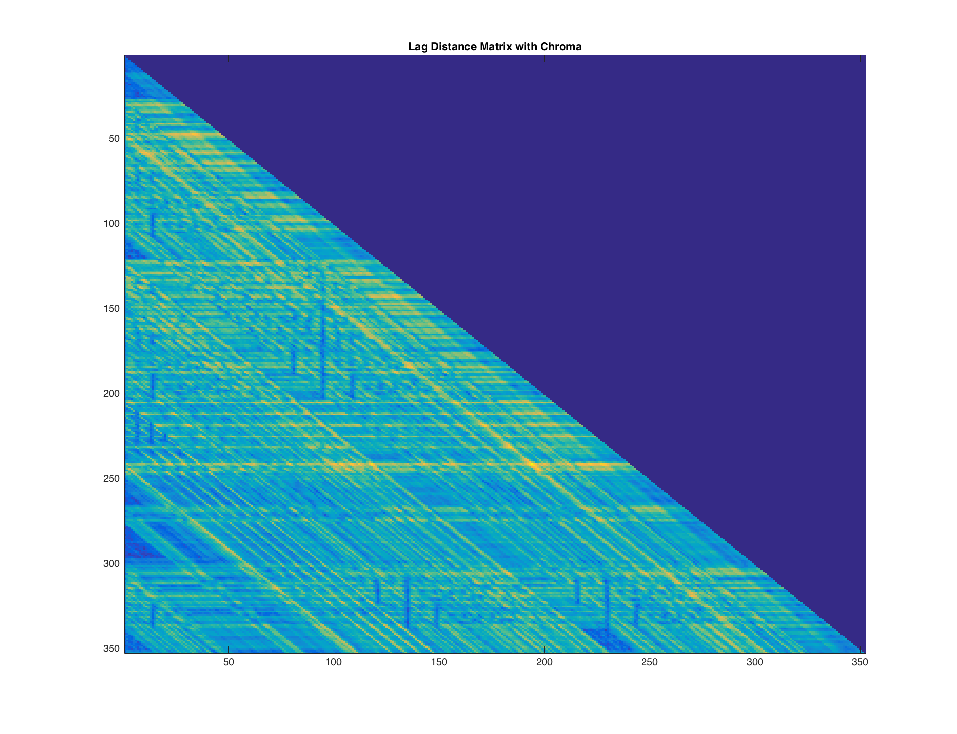
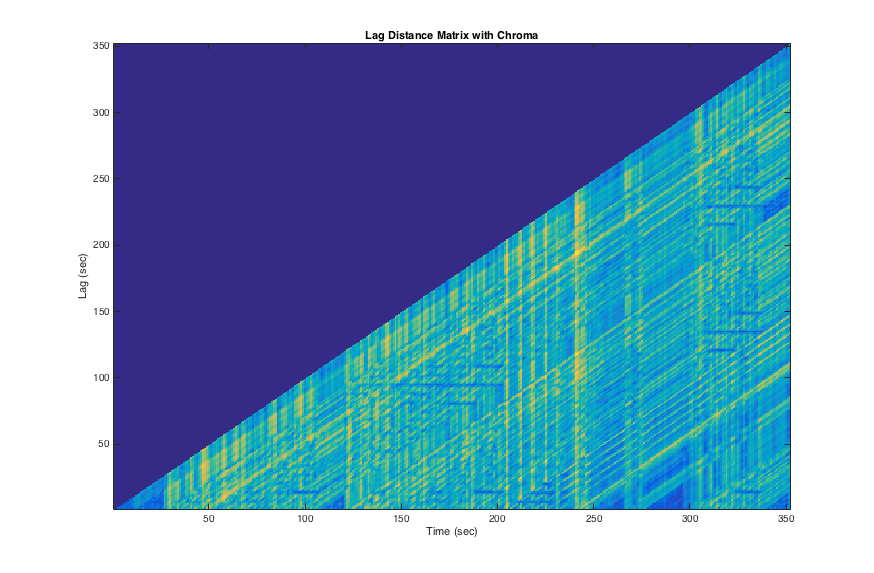
plot changes

diff --git a/Segmentation/MainForSegmentation.m b/Segmentation/MainForSegmentation.m
@@ -38,10 +38,11 @@ end
 % SDM for features
 featureMatrix=NormVPC;
 [SDMVPC] = computeSelfDistMat(featureMatrix);
+figure;imagesc(SDMVPC);title('SDM with Chroma'); xlabel('Time (sec)'); ylabel('Time (sec)');
 
 featureMatrix=NormVMFCC;
 [SDMVMFCC] = computeSelfDistMat(featureMatrix);
-
+figure;imagesc(SDMVMFCC);title('SDM with MFCCs'); xlabel('Time (sec)'); ylabel('Time (sec)');
 
 %% novelty plotting
 % read annotation
@@ -54,7 +55,7 @@ time=round(time);
 L=2;
 [nvtVPC1] = computeSdmNovelty(SDMVPC, L);
 nvtVPC1=normalizeZeroToOne(nvtVPC1');
-figure; title('Novelty for Chroma');
+figure; title('Novelty for Chroma'); xlabel('Time (sec)');
 subplot(311); plot(nvtVPC1); title('L=2');
 for i=1:length(time)
    hold on;
@@ -86,12 +87,13 @@ for i=1:length(time)
    yval=[0 1];
    plot(xval,yval,'k');
 end
+xlabel('Time (sec)');
 
 L=2;
 [nvtMFCC1] = computeSdmNovelty(SDMVMFCC, L);
 nvtMFCC1=normalizeZeroToOne(nvtMFCC1');
 
-figure; title('Novelty for MFCCs');
+figure; title('Novelty for MFCCs'); xlabel('Time (sec)');
 subplot(311); plot(nvtMFCC1); title('L=2');
 for i=1:length(time)
    hold on;
@@ -123,13 +125,14 @@ for i=1:length(time)
    yval=[0 1];
    plot(xval,yval,'k');
 end
+xlabel('Time (sec)');
 
 %% Lag Distance Matrix
 Rvpc = computeLagDistMatrix(SDMVPC);
-figure; imagesc(Rvpc);title('Lag Distance Matrix with Chroma')
+figure; imagesc(Rvpc);title('Lag Distance Matrix with Chroma'); axis xy; xlabel('Time (sec)'); ylabel('Lag (sec)');
 
 Rmfcc = computeLagDistMatrix(SDMVMFCC);
-figure;imagesc(Rmfcc);title('Lag Distance Matrix with MFCCs');
+figure;imagesc(Rmfcc);title('Lag Distance Matrix with MFCCs'); axis xy; xlabel('Time (sec)'); ylabel('Lag (sec)');
 
 %% Binarization
 threshold=0.5;
@@ -148,24 +151,24 @@ threshold=0.5;
 
 NormSDMmfcc=(Rmfcc-min(min(Rmfcc)))./(max(max(Rmfcc))-min(min(Rmfcc)));
 [SDM_binaryMFCC] = computeBinSdm(NormSDMmfcc, 0.35);
-figure;imagesc(SDM_binaryMFCC);
+figure;imagesc(SDM_binaryMFCC); axis xy; xlabel('Time (sec)'); ylabel('Lag (sec)');
 colormap gray;
 title('Binary SDM MFCC with threshold=0.35');
 
 NormSDMvpc=(Rvpc-min(min(Rvpc)))./(max(max(Rvpc))-min(min(Rvpc)));
 [SDM_binaryVPC] = computeBinSdm(NormSDMvpc, 0.4);
-figure;imagesc(SDM_binaryVPC);
+figure;imagesc(SDM_binaryVPC); axis xy; xlabel('Time (sec)'); ylabel('Lag (sec)');
 colormap gray;
 title('Binary SDM Chroma with threshold=0.4');
 
 %% erode dilate
 L=10;
 [SDM_edMFCC] = erodeDilate(SDM_binaryMFCC, L);
-figure;imagesc(SDM_edMFCC);
+figure;imagesc(SDM_edMFCC); axis xy; xlabel('Time (sec)'); ylabel('Lag (sec)');
 colormap gray;
 title('Erosion on MFCC');
 
 [SDM_edvpc] = erodeDilate(SDM_binaryVPC, L);
-figure;imagesc(SDM_edvpc);
+figure;imagesc(SDM_edvpc); axis xy; xlabel('Time (sec)'); ylabel('Lag (sec)');
 colormap gray;
 title('Erosion on Chroma');

diff --git a/Segmentation/erodeDilate.m b/Segmentation/erodeDilate.m
@@ -9,6 +9,6 @@ function [SDM_ed] = erodeDilate(SDM, L)
 
 SDM = SDM - 1; 
 SDM(SDM == -1) = 1; %inverse the SDM matrix (becomes self-similarity matrix)
-se = strel('line', L, 90); %length = L, degree = 0
+se = strel('line', L, 0); %length = L, degree = 0
 tmp = imerode(SDM, se);
 SDM_ed = imdilate(tmp,se);
